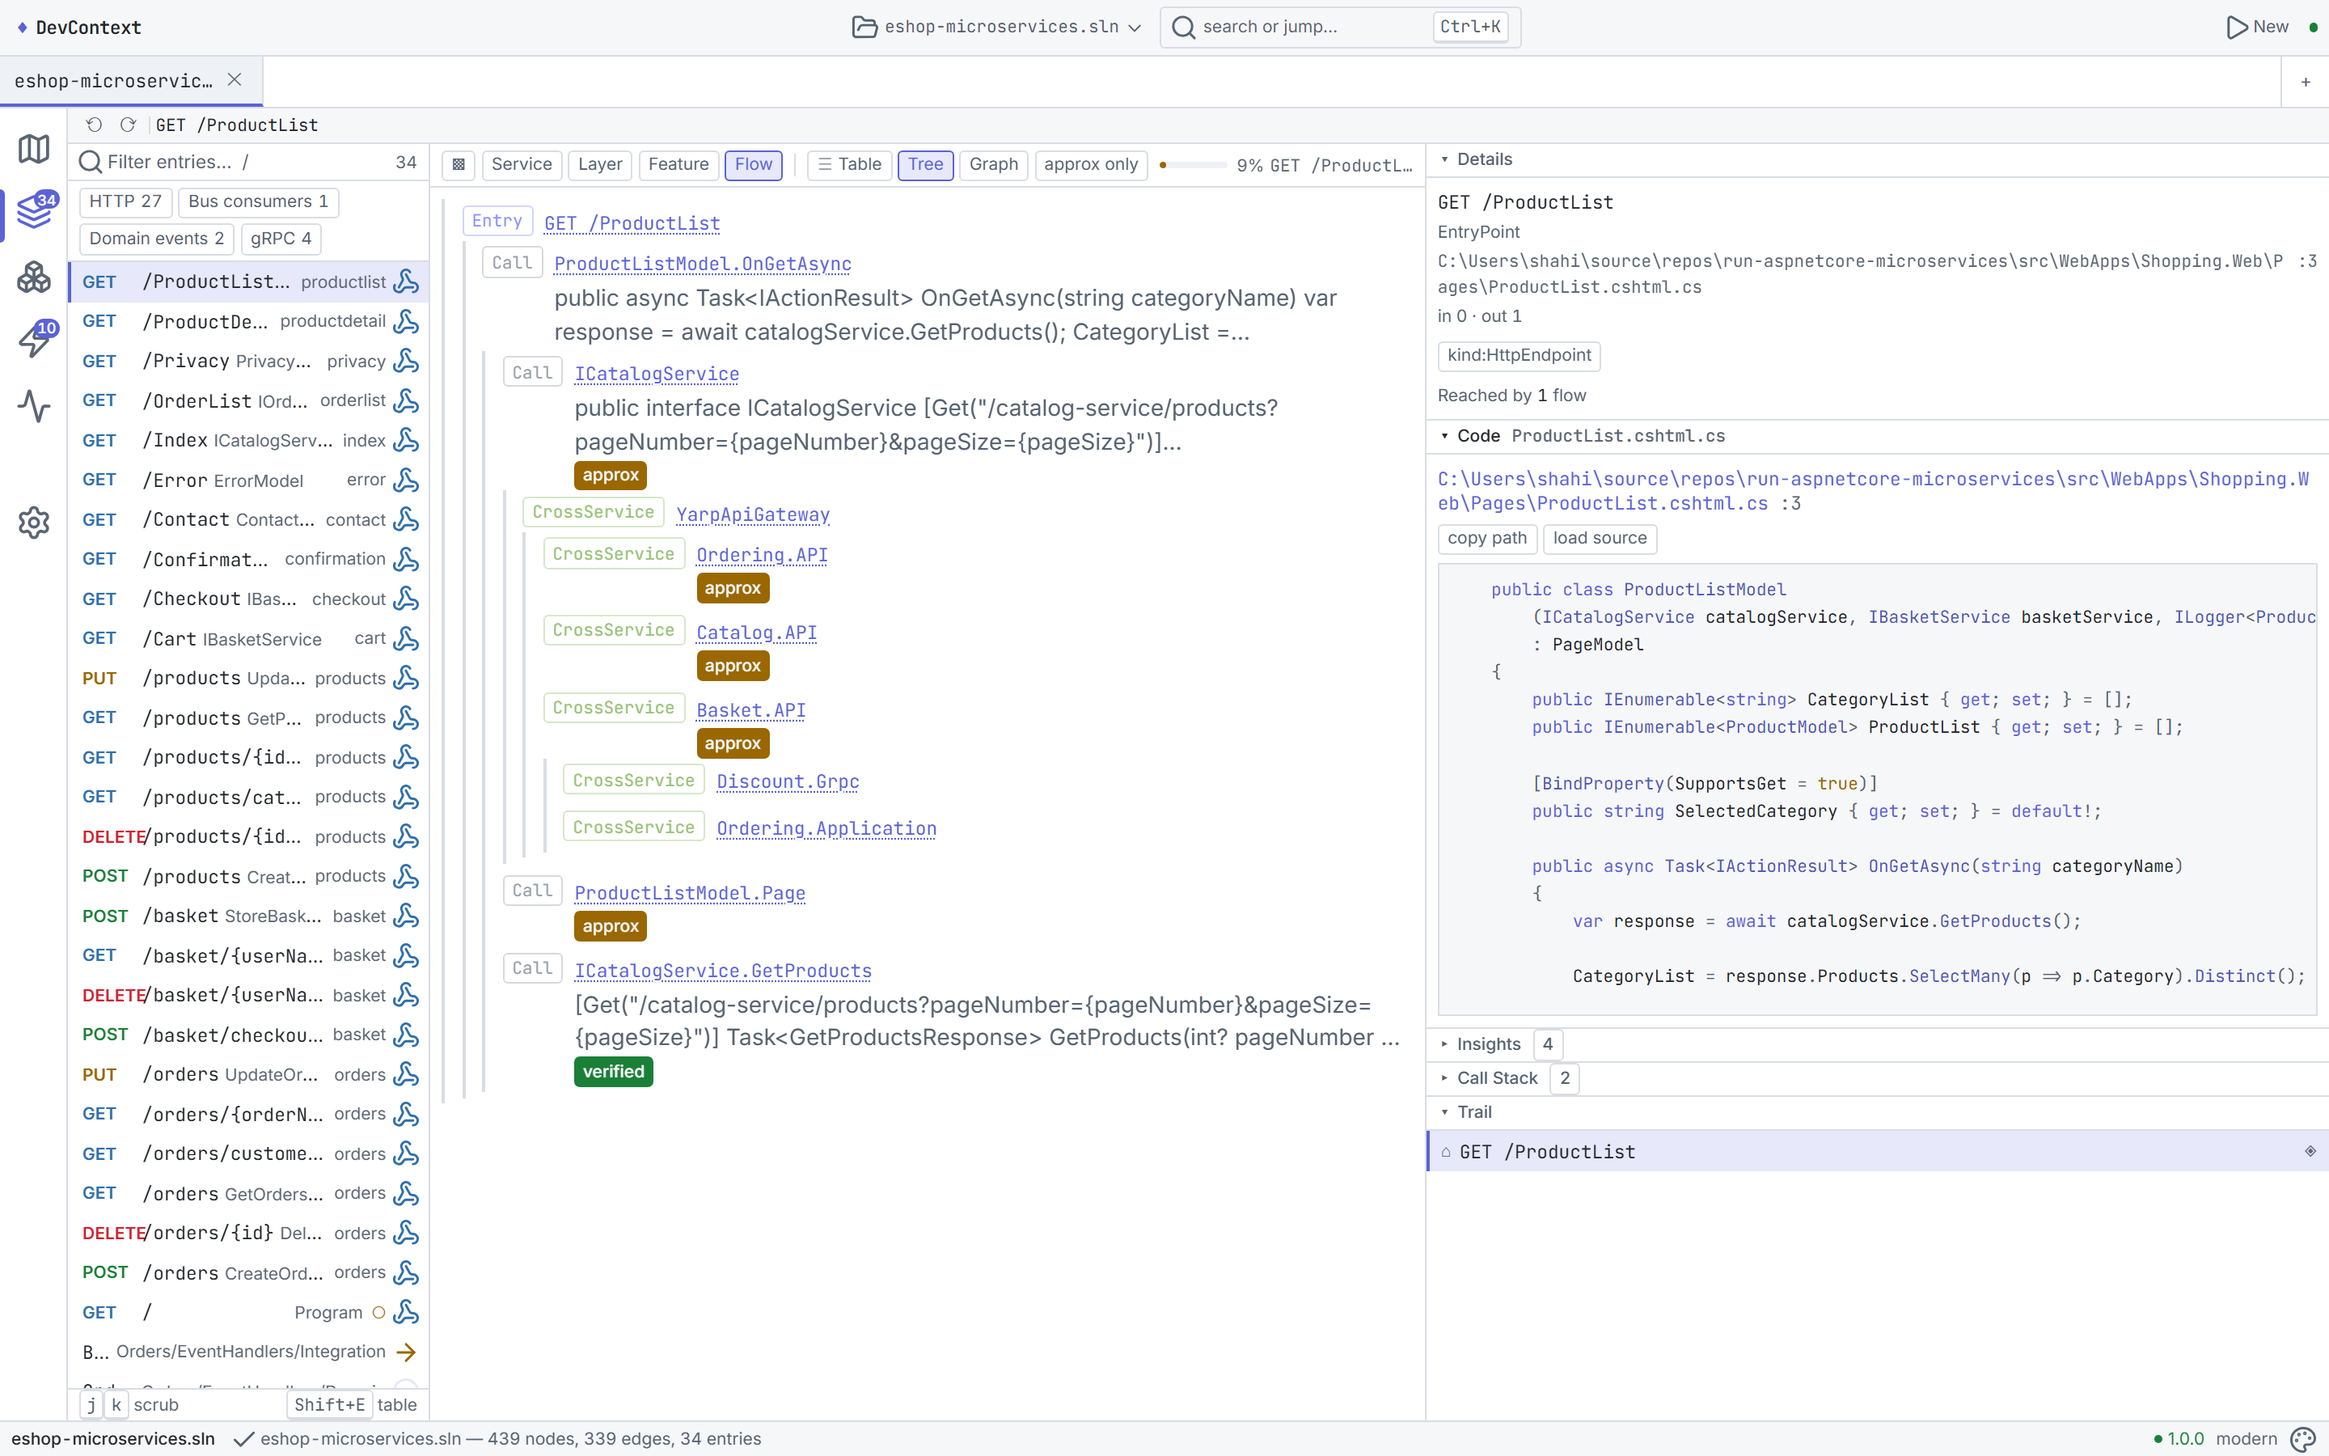
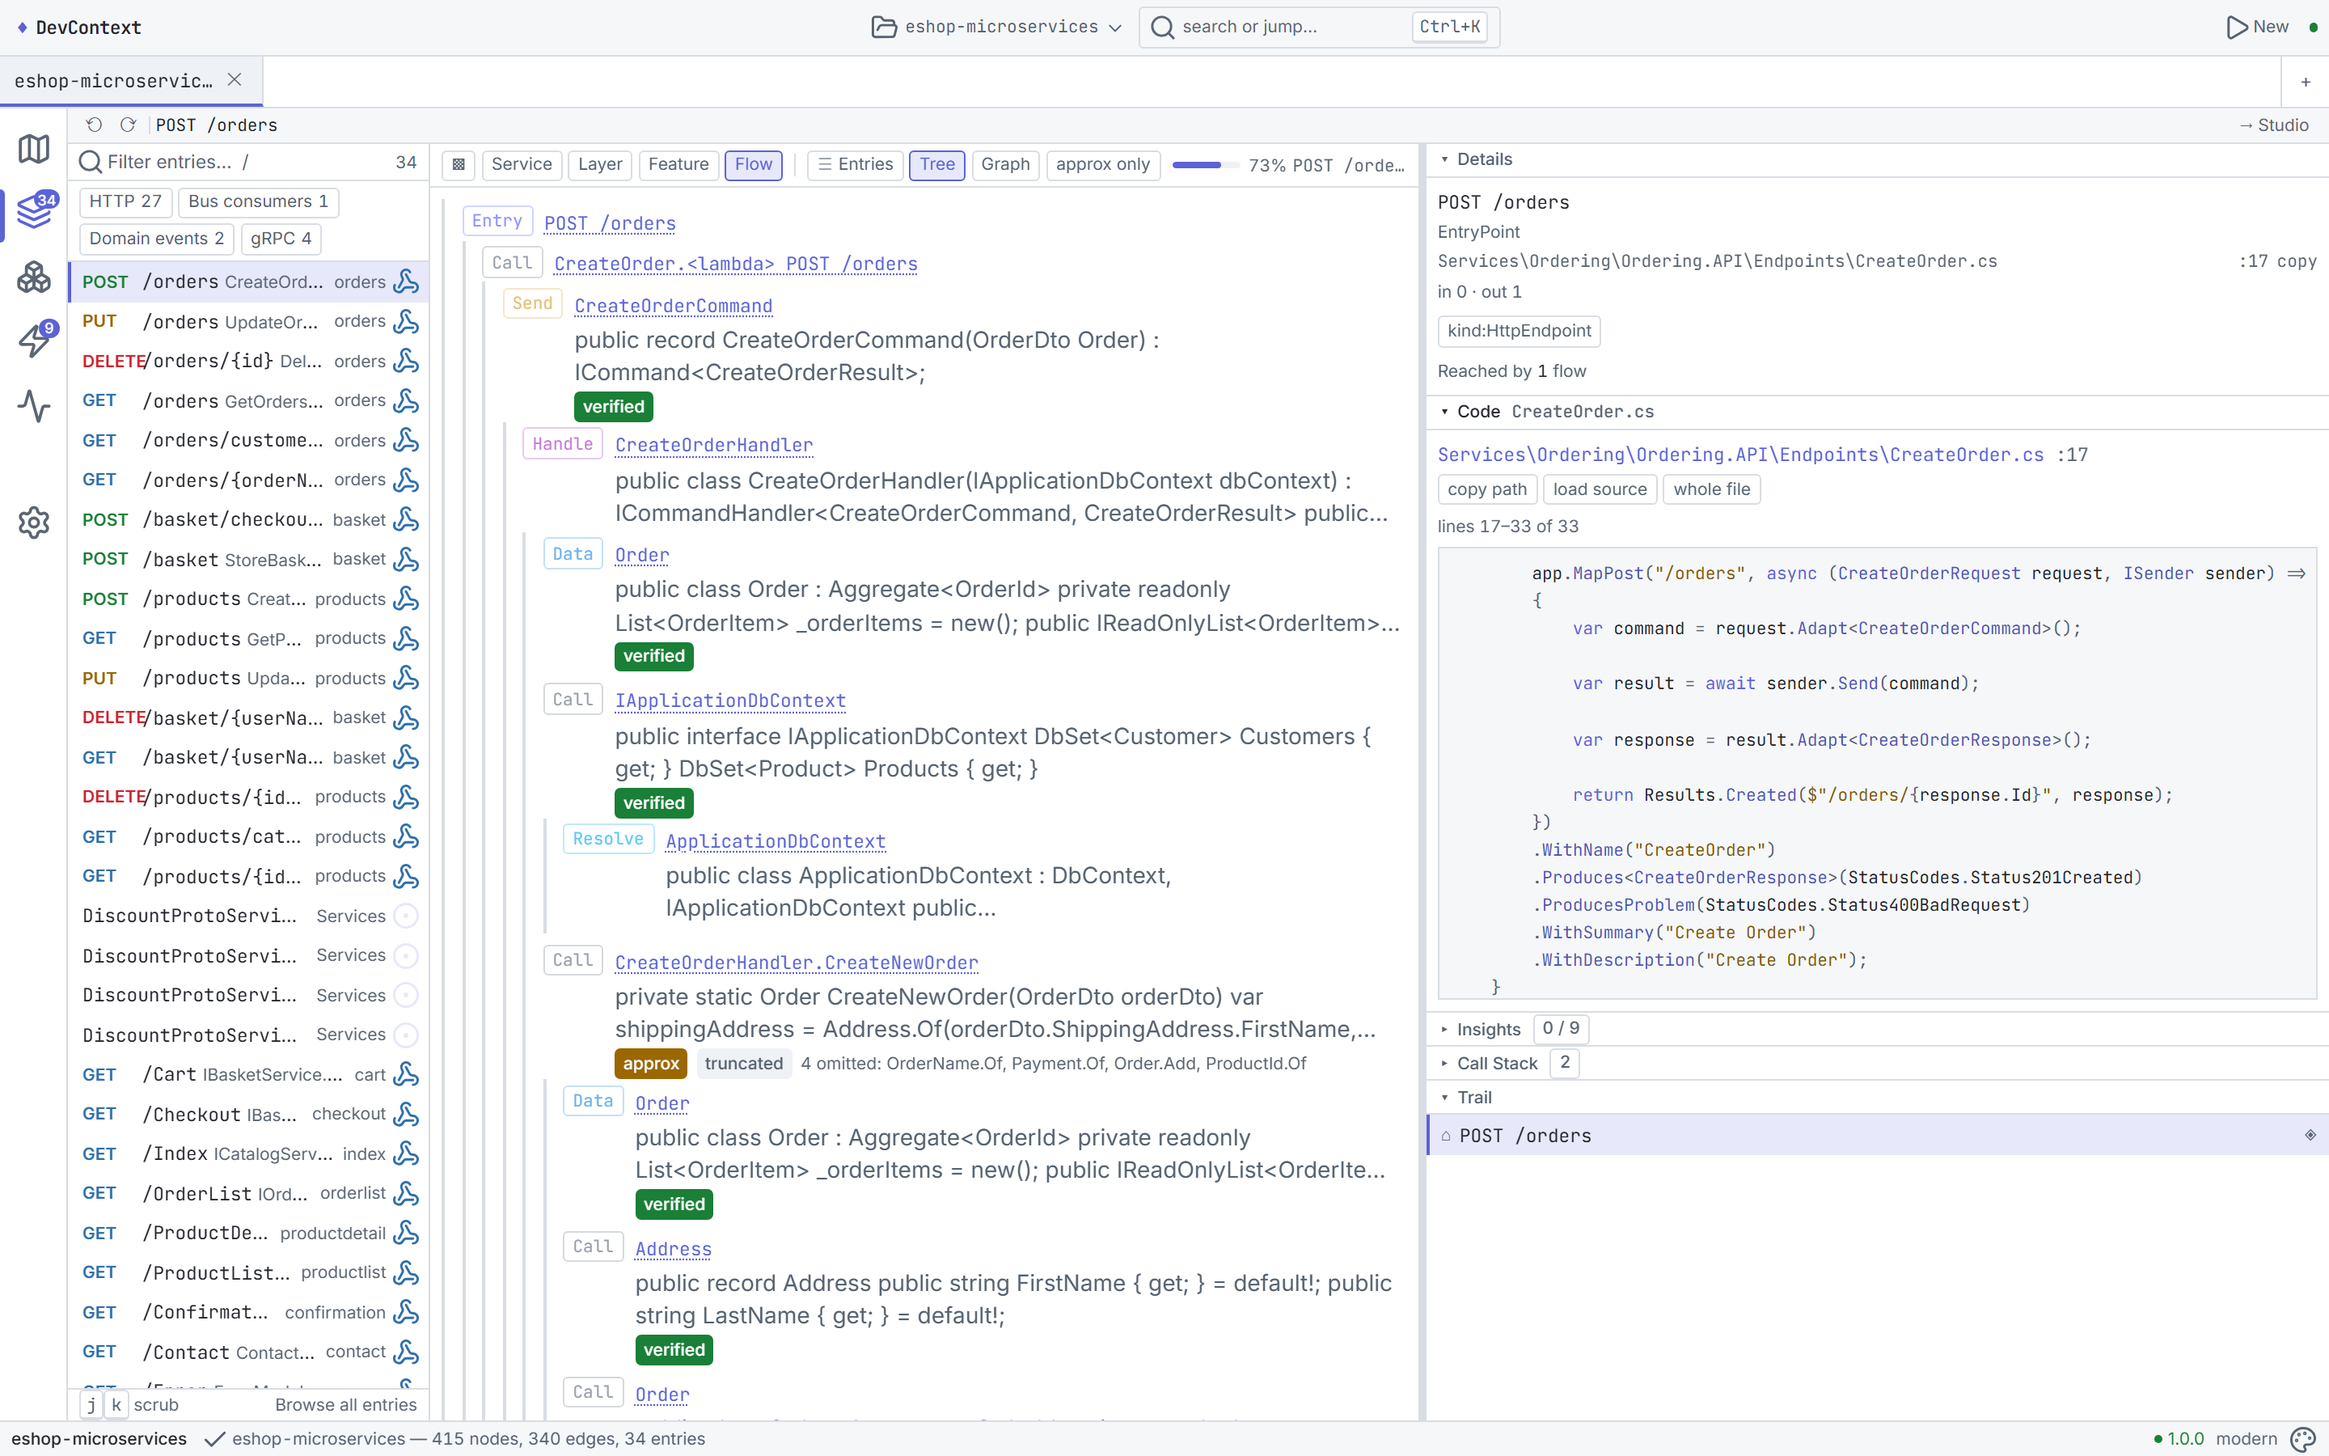
docs(z1): the screenshots show the app this run built (Z1.2)
All 12 README shots re-captured against the post-N4 app plus one new
13-mcp-feed.png. The MCP feed has no backlog - ObserveToolCalls streams to
current observers and replays nothing - so a shot on a quiet machine shows the
empty state and cannot show the affordance N4.3 added. Rather than fake rows on
the one page whose redesign was about not performing, the capture drives a REAL
sidecar (scripts/seed-agent-calls.mjs) at the same server the browser watches:
analyze, entrypoints, trace, get_context on eShop, tagged agent by the origin
middleware and streamed live. Screenshot-side twin of deep-link-truth.js.

10-mcp now carries the measured status card, the write-config host cards and the
served catalog header (14 advertised, 8 unlisted); 13-mcp-feed carries the rows
themselves with replay and open on the get_context and trace rows. It needed its
own file because that page is taller than the viewport and the shell scrolls
internally, so fullPage yields the viewport.

README captions follow the UI: the picker is two tabs over one source, usage is
a card, Studio opens on a proposed pack, and the pack carries a verification
ledger. The agent-story claims are left to the engine run Z1.

Gates: pnpm lint 0, capture 13/13.
Evidence: eval-results/2026-08-14/Z1.2-screenshot-sync.md

diff --git a/eval-results/2026-08-14/Z1.2-screenshot-sync.md b/eval-results/2026-08-14/Z1.2-screenshot-sync.md
@@ -1,0 +1,106 @@
+# Z1.2 — README screenshots re-captured against the post-N4 app
+
+**Stage Z1 · checkpoint Z1.2 · 2026-08-14 · branch `feat/pre-release-desktop`**
+
+Acceptance declared before capturing (knowledge ledger): the shots come from the EXISTING pipeline
+(`capture-readme.mts`, `--no-spawn`, against a freshly restarted `start-dev-bg` per trap 5), and
+08-context-studio / 09-export / 10-mcp show the post-N4 app — the MCP page with its served catalog
+and feed rows carrying the open/replay affordance, the Studio with the Types tab and the `usage`
+card. README captions updated only where the UI changed; the agent-story claims stay untouched.
+
+## The problem the capture had to solve, and how it was solved honestly
+
+The MCP feed **has no backlog**: `ObserveToolCalls` writes to a channel per observer and replays
+nothing (`DevContextGrpcService.cs:860-882`). A shot of `/mcp` on a quiet machine therefore shows
+the empty state — *"No agent calls yet"* — and cannot show the affordance N4.3 built. The feed also
+defaults to **agents only**, so the app's own gRPC traffic does not fill it either, and a UI-origin
+row carries no `primary_arg` and therefore no link.
+
+Faking rows was not an option on a page whose whole redesign was about not performing. So the
+capture drives a **real MCP sidecar** at the same server the browser is watching:
+
+```
+devcontext-mcp.exe  --stdio-->  DEVCONTEXT_ENDPOINT=http://127.0.0.1:5179  (the dev server)
+   initialize → analyze(eShop) → entrypoints → trace(focus) → get_context(focus)
+```
+
+`ServerShim.EnsureServerRunning` reuses whatever answers `/health` at that endpoint, so the calls
+land on the running server, are tagged `agent` by the origin middleware, and stream to the open
+page. This is the screenshot-side twin of `eval/mcp-qa/deep-link-truth.js`, which measures the same
+rows on the wire. New file: `src/DevContext.App/scripts/seed-agent-calls.mjs` (the sidecar driver);
+`capture-readme.mts` gained a per-shot timeout override and calls it from the two MCP shots.
+
+## Capture run
+
+| | |
+|---|---|
+| Services | `start-dev-bg.ps1 -Kill` then a fresh start (trap 5) — server `127.0.0.1:5179`, web `4200` |
+| Command | `conductor bg start --purpose readme-capture2 -- node --experimental-strip-types src/DevContext.App/scripts/capture-readme.mts --no-spawn` |
+| Log | `.conductor/bg-logs/readme-capture2-20260814-112940019.log` |
+| Result | **13/13 captured**, 12:29:48 → 12:30:32 (~50s); report regenerated at `docs/screenshots/README.md` |
+| Target repo | eShop microservices (`run-aspnetcore-microservices`), 415 nodes / 340 edges / 34 entries |
+| Feed seed | `✓ 4 agent calls on POST /orders` — logged on both MCP shots |
+
+All twelve existing PNGs are re-captured (every one shows as modified) plus one new file.
+
+| File | KB | File | KB |
+|---|---|---|---|
+| 01-home.png | 235 | 08-context-studio.png | 648 |
+| 02-atlas.png | 191 | 09-export.png | 659 |
+| 03-explore.png | 632 | 10-mcp.png | 405 |
+| 04-graph.png | 404 | 11-settings.png | 98 |
+| 05-code-inspector.png | 738 | 12-home-full.png | 236 |
+| 06-table-lens.png | 414 | **13-mcp-feed.png (new)** | 335 |
+| 07-insights.png | 350 | | |
+
+## What the new shots actually show (read off the PNGs, not assumed)
+
+**08-context-studio.png** — the picker's two tabs (`Entries 34` / `Types 0`, counts on the tabs so
+an empty one says so), the N3 proposed pack (*"Proposed from this repo's top 3 flows — edit it, or
+start over"*), per-card `4 verified · 3 approx · 57% verified` with the file:line set above it, the
+budget at the reconciled **8000** default, the verification ledger (*"Checked 12:27:07 · covers this
+pack's sections · Fresh — every cited file matches its analyze-time fingerprint"*), the fill note
+and an 8-item omitted list, and **Copy / Save to repo**.
+
+**10-mcp.png** — the measured status card (*"devcontext-mcp found — a host can spawn it"* with the
+resolved path, `1 watcher(s) attached`, `Last agent call: GetTrace, 3m ago — 54 agent call(s)
+served`), **Test handshake**, the three host cards each with a **Write …/mcp.json** button and the
+repo they write into, and the served catalog header **`14 advertised · 8 unlisted`** with
+*"Read from …devcontext-mcp.exe in 5264ms — this is exactly what an agent sees"*.
+
+**13-mcp-feed.png (new)** — the specialists and retired-name tables, the sessions table (analysed
+age with `(cached)`, calls/nodes/edges/entries), and **LIVE FEED (5)** with agent rows in MCP
+vocabulary — `get_context`, `trace`, `entrypoints`, `analyze` — each carrying its primary argument
+(`focus:POST /orders`), token estimate and wire duration, with **`replay ↗`** on the `get_context`
+row and **`open ↗`** on the `trace` row. The `agents only` filter and `Shown: 17732 tok` are visible,
+i.e. the N0.2 fix that made the total follow the filter.
+
+The one 10-mcp shot could not carry the feed: that page is taller than the viewport and
+`fullPage: true` yields the viewport height because the shell scrolls internally. Hence the second
+shot rather than a scrolled-and-cropped first one — the README now shows the deck and the feed side
+by side.
+
+## README changes (captions and page prose only)
+
+| Where | Change |
+|---|---|
+| §Context Studio bullets | Scope picker described as two tabs over one source (Entries with row identity, Types for the public surface) plus presets and *From current trail* / pins; the card list gains **usage**; "toggle body on/off" → "hide bodies per card" (it only renders where it acts) |
+| §Context Studio prose | New sentence: Studio opens on a **proposed pack** from the trail and pins, not empty; provenance now also names the verification ledger and the budget-honesty note |
+| 08/09 caption | Names what the two shots show now (Entries/Types picker + per-card provenance; budget meter, ledger, omitted list) |
+| §MCP Integration | The desktop half rewritten to what the page does after N4: probing status card with the resolved path, watcher count and last-agent-call, **Test handshake** as one real `initialize`+`tools/list`, per-host **write the config for me**, and the catalog **served by the MCP** (14 advertised + 8 unlisted) so the page cannot drift |
+| 10-mcp caption | Split into a two-image row with 13-mcp-feed, and the caption states the row behaviour (`trace` → Explore, `get_context` → replay in Studio) |
+
+**Untouched on purpose:** the "22 tools" claim and everything else about the agent story — those
+belong to the engine run's Z1. Worth its attention: the page now shows `14 advertised · 8 unlisted`
+beside a README sentence that says 22, which is arithmetically true and reads oddly.
+
+## Gates
+
+| Gate | Result |
+|---|---|
+| `pnpm lint` (`ng lint`) | **All files pass linting**, exit 0 |
+| Capture run | 13/13, no per-shot timeout, no `⚠` other than none |
+| Earlier this session (Z1.1) | `dotnet build src/DevContext.Contracts` 0w/0e · `pnpm exec tsc --noEmit` exit 0 |
+
+No app source changed in this checkpoint — the diff is `docs/screenshots/*`, `README.md`, and the
+two capture scripts. The stage battery is Conductor's post-session run.

diff --git a/README.md b/README.md
@@ -79,12 +79,19 @@ The **Table Lens** gives you a CDK-virtualized spreadsheet of every entry point 
 ### 🧠 Context Studio
 
 Assemble LLM-ready context packs with the **Context Studio** — a three-pane tool:
-- **Scope picker** (left): browse services → entries as a tree, search with omnibox, use presets like *"I'm changing this endpoint"*
-- **Composition view** (center): ordered cards for flows, signatures, bodies, DI wiring, config, entities, contracts, tests — drag to reorder, toggle body on/off
+- **Scope picker** (left): two tabs over one source — **Entries** (services → routes, with each row
+  naming what it dispatches to) and **Types** (the public surface, so a library is scopeable too) —
+  plus presets like *"I'm changing this endpoint"* and *From current trail* / pins
+- **Composition view** (center): ordered cards for flows, signatures, bodies, **usage** ("who calls
+  this"), DI wiring, config, entities, contracts, tests — drag to reorder, hide bodies per card
 - **Budget panel** (right): token budget slider with per-card meter, intent selector (trace / explain / review), format (markdown / plain), Copy / **Save to repo** with toast feedback
 
-Every pack opens with an identity header (repo, archetype, analyzed-at, git HEAD) and carries
-**per-section provenance** — which files each section came from and how it was resolved.
+Studio does not open empty after you have explored: its default state is a **proposed pack** built
+from the current trail and pins. Every pack opens with an identity header (repo, archetype,
+analyzed-at, git HEAD) and carries **per-section provenance** — which files each section came from,
+how many items resolved semantically versus by heuristic, and a **verification ledger** for the
+pack that was actually built (fresh / stale per cited file), beside an honest note about what the
+budget cut.
 
 **Hand it to your agent.** *Save to repo* writes the pack into the repo it describes —
 `.devcontext/packs/<name>.md`, gitignored by default — and hands back a one-line instruction to
@@ -95,17 +102,30 @@ agent reads, as a file in the tree rather than a paste that goes stale.
   <a href="docs/screenshots/08-context-studio.png"><img src="docs/screenshots/08-context-studio.png" alt="Context Studio" width="45%"></a>
   <a href="docs/screenshots/09-export.png"><img src="docs/screenshots/09-export.png" alt="Export" width="45%"></a>
   <br>
-  <em>Context Studio with scope picker + composition (left) and export/copy with token budget (right)</em>
+  <em>Context Studio — Entries/Types picker + composed cards with per-card provenance (left); the same pack with its budget meter, verification ledger and omitted list (right)</em>
 </p>
 
 ### 🔌 MCP Integration
 
-DevContext ships a built-in **MCP server** exposing **22 tools** for AI agent integration — from `overview` and `trace` to budget-priced `get_context` packs and `verify_context` staleness checks. The desktop UI provides an MCP observability page — telemetry status, configuration snippets, sessions table, live tool-**call** feed, and a "Try a tool" sandbox. Setup + full tool catalog: [docs/product/mcp-reference.md](docs/product/mcp-reference.md).
+DevContext ships a built-in **MCP server** exposing **22 tools** for AI agent integration — from `overview` and `trace` to budget-priced `get_context` packs and `verify_context` staleness checks. Setup + full tool catalog: [docs/product/mcp-reference.md](docs/product/mcp-reference.md).
+
+The desktop's **MCP page** is the room where you set that up and then watch it work. Its status
+card *measures* rather than asserts: it probes for the `devcontext-mcp` binary and names the path
+it found, reports how many watchers are attached and when an agent last called, and **Test
+handshake** runs one real `initialize` + `tools/list` round trip against that exe. Each host card
+carries a snippet with the resolved absolute path and a button that **writes the config file for
+you** (`.mcp.json`, `.cursor/mcp.json`, `.vscode/mcp.json`) into the repo you have analyzed,
+merging with servers already registered there. The **tool catalog is served by the MCP itself** —
+the 14 advertised tools an agent actually sees, the 8 unlisted specialists, and the folded-away
+names — so the page cannot drift from the menu.
 
 <p align="center">
-  <a href="docs/screenshots/10-mcp.png"><img src="docs/screenshots/10-mcp.png" alt="MCP" width="85%"></a>
+  <a href="docs/screenshots/10-mcp.png"><img src="docs/screenshots/10-mcp.png" alt="MCP page — status, host config, served catalog" width="45%"></a>
+  <a href="docs/screenshots/13-mcp-feed.png"><img src="docs/screenshots/13-mcp-feed.png" alt="MCP page — sessions and the live agent feed" width="45%"></a>
   <br>
-  <em>MCP management page — status, config, sessions, live feed, try-a-tool sandbox</em>
+  <em>MCP page — measured status, write-the-config-for-me host cards and the served catalog (left);
+  sessions and the live feed in the agent's own vocabulary (right), where a <code>trace</code> row
+  opens its subject in Explore and a <code>get_context</code> row replays that pack in Studio</em>
 </p>
 
 ---

diff --git a/docs/screenshots/README.md b/docs/screenshots/README.md
@@ -1,6 +1,6 @@
 # README Screenshot Capture
 
-**Date:** 2026-07-16
+**Date:** 2026-08-14
 **Target repo:** `C:\Users\shahi\source\repos\run-aspnetcore-microservices\src\eshop-microservices.sln`
 
 | # | Screenshot | Status |
@@ -17,5 +17,6 @@
 | 10 | `10-mcp.png` | ✅ |
 | 11 | `11-settings.png` | ✅ |
 | 12 | `12-home-full.png` | ✅ |
+| 13 | `13-mcp-feed.png` | ✅ |
 
-**12/12 successful**
+**13/13 successful**
